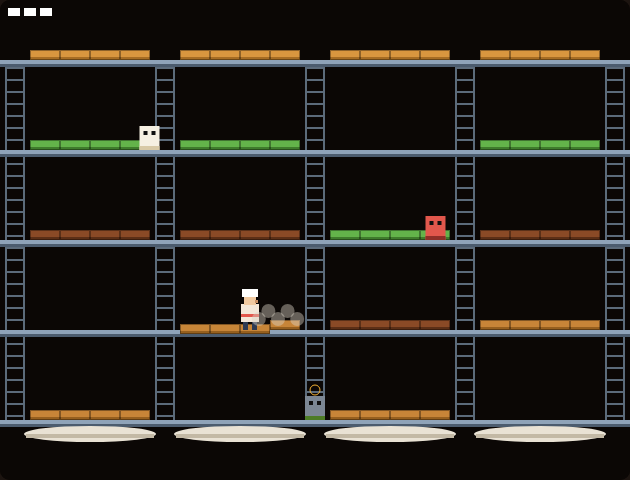
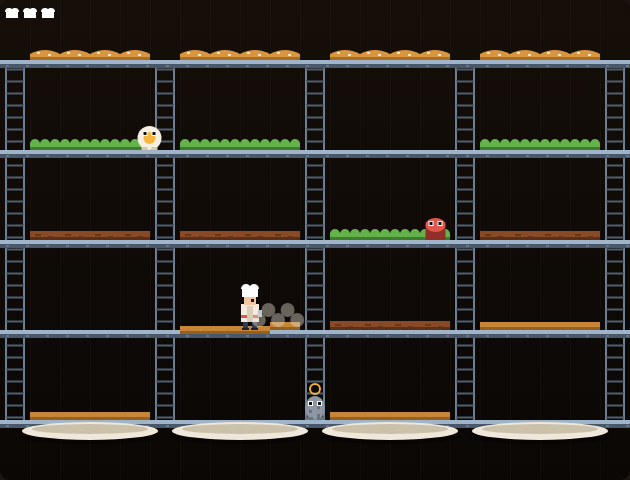
Polish Burger Time visuals and mark it complete
- Type-specific ingredient art (domed sesame bun, ruffled lettuce,
  textured patty), a tiled kitchen backdrop and riveted girders
- Distinct enemy sprites, animated chef stride and plate rendering that
  sits under the burger stack
- README status set to Complete now the 72-test suite is green

Claude-Session: https://claude.ai/code/session_0171SLrbWfZtJgYm64gdHMD5

diff --git a/BurgerTime/game.js b/BurgerTime/game.js
@@ -609,13 +609,25 @@ function hideOverlay() {
 // ---------------------------------------------------------------------------
 
 function drawBoard() {
-    ctx.fillStyle = '#0b0705';
+    // Kitchen backdrop: a dark tiled wall behind the girders.
+    const grad = ctx.createLinearGradient(0, 0, 0, CANVAS_H);
+    grad.addColorStop(0, '#150e09');
+    grad.addColorStop(1, '#0a0705');
+    ctx.fillStyle = grad;
     ctx.fillRect(0, 0, CANVAS_W, CANVAS_H);
+    ctx.strokeStyle = 'rgba(255, 255, 255, 0.025)';
+    ctx.lineWidth = 1;
+    for (let x = TILE; x < CANVAS_W; x += TILE) {
+        ctx.beginPath();
+        ctx.moveTo(x + 0.5, 0);
+        ctx.lineTo(x + 0.5, CANVAS_H);
+        ctx.stroke();
+    }
 
-    // Ladders behind the platforms.
+    // Ladders, behind the platforms.
     for (const c of LADDER_COLS) {
         const x = ladderX(c);
-        ctx.strokeStyle = '#5c6b7a';
+        ctx.strokeStyle = '#6d7f92';
         ctx.lineWidth = 2;
         ctx.beginPath();
         ctx.moveTo(x - 9, MIN_Y);
@@ -623,87 +635,173 @@ function drawBoard() {
         ctx.moveTo(x + 9, MIN_Y);
         ctx.lineTo(x + 9, MAX_Y);
         ctx.stroke();
-        for (let y = MIN_Y + 8; y < MAX_Y; y += 12) {
+        ctx.strokeStyle = '#4f5f70';
+        for (let y = MIN_Y + 9; y < MAX_Y; y += 12) {
             ctx.beginPath();
-            ctx.moveTo(x - 9, y);
-            ctx.lineTo(x + 9, y);
+            ctx.moveTo(x - 9, y + 0.5);
+            ctx.lineTo(x + 9, y + 0.5);
             ctx.stroke();
         }
     }
 
-    // Platforms.
+    // Platforms: a bright walk line over a riveted girder.
     for (const r of FLOOR_ROWS) {
         const y = floorY(r);
-        ctx.fillStyle = '#8fa3b8';
+        ctx.fillStyle = '#9fb4c9';
         ctx.fillRect(0, y, CANVAS_W, 4);
-        ctx.fillStyle = '#4c5c6e';
-        ctx.fillRect(0, y + 4, CANVAS_W, 3);
+        ctx.fillStyle = '#48586a';
+        ctx.fillRect(0, y + 4, CANVAS_W, 4);
+        ctx.fillStyle = '#66788c';
+        for (let x = 6; x < CANVAS_W; x += 20) ctx.fillRect(x, y + 5, 3, 2);
     }
 
     // Plates.
     for (let b = 0; b < BURGER_COLS.length; b++) {
-        const x = BURGER_COLS[b] * TILE;
-        const y = floorY(PLATE_ROW) + 14;
-        ctx.fillStyle = '#e9e2d4';
+        const cx = BURGER_COLS[b] * TILE + INGREDIENT_W / 2;
+        const y = floorY(PLATE_ROW) + 11;
+        ctx.fillStyle = 'rgba(0, 0, 0, 0.35)';
         ctx.beginPath();
-        ctx.ellipse(x + INGREDIENT_W / 2, y, INGREDIENT_W / 2 + 6, 8, 0, 0, Math.PI * 2);
+        ctx.ellipse(cx, y + 6, INGREDIENT_W / 2 + 10, 7, 0, 0, Math.PI * 2);
         ctx.fill();
-        ctx.fillStyle = '#c3b9a5';
-        ctx.fillRect(x - 4, y, INGREDIENT_W + 8, 4);
+        ctx.fillStyle = '#efe8da';
+        ctx.beginPath();
+        ctx.ellipse(cx, y, INGREDIENT_W / 2 + 8, 9, 0, 0, Math.PI * 2);
+        ctx.fill();
+        ctx.fillStyle = '#cbc0aa';
+        ctx.beginPath();
+        ctx.ellipse(cx, y - 2, INGREDIENT_W / 2 - 2, 5, 0, 0, Math.PI * 2);
+        ctx.fill();
     }
+}
+
+// Each ingredient is drawn tile by tile, so a trodden tile can sag on its own.
+function drawIngredientTile(g, s, x, top) {
+    const h = INGREDIENT_H;
+    ctx.fillStyle = g.color;
+
+    if (g.type === 'topbun') {
+        ctx.beginPath();
+        ctx.moveTo(x, top + h);
+        ctx.lineTo(x, top + 4);
+        ctx.quadraticCurveTo(x + TILE / 2, top - 4, x + TILE, top + 4);
+        ctx.lineTo(x + TILE, top + h);
+        ctx.closePath();
+        ctx.fill();
+        ctx.fillStyle = '#f6e3bf';   // sesame seeds
+        ctx.fillRect(x + 7, top + 2, 3, 2);
+        ctx.fillRect(x + 18, top + 4, 3, 2);
+    } else if (g.type === 'lettuce') {
+        ctx.fillRect(x, top + 3, TILE, h - 3);
+        ctx.beginPath();
+        for (let i = 0; i < 3; i++) {
+            ctx.moveTo(x + i * 10, top + 4);
+            ctx.arc(x + i * 10 + 5, top + 4, 5, Math.PI, 0);
+        }
+        ctx.fill();
+    } else if (g.type === 'patty') {
+        ctx.fillRect(x, top + 1, TILE, h - 1);
+        ctx.fillStyle = 'rgba(0, 0, 0, 0.25)';
+        ctx.fillRect(x + 5, top + 4, 6, 2);
+        ctx.fillRect(x + 18, top + 6, 5, 2);
+    } else {
+        ctx.fillRect(x, top + 2, TILE, h - 2);
+    }
+
+    ctx.fillStyle = g.edge;
+    ctx.fillRect(x, top + h - 3, TILE, 3);
 }
 
 function drawIngredient(g) {
     const x = g.col * TILE;
     for (let s = 0; s < INGREDIENT_TILES; s++) {
-        // A trodden segment sags a little, the way the arcade sprite does.
+        // A trodden tile sags, the way the arcade sprite does.
         const sag = g.state === 'rest' && !g.onPlate && g.segs[s] ? 4 : 0;
-        const top = g.y - INGREDIENT_H + sag;
-        ctx.fillStyle = g.color;
-        ctx.fillRect(x + s * TILE, top, TILE, INGREDIENT_H);
-        ctx.fillStyle = g.edge;
-        ctx.fillRect(x + s * TILE, top + INGREDIENT_H - 3, TILE, 3);
-        ctx.strokeStyle = 'rgba(0,0,0,0.35)';
-        ctx.lineWidth = 1;
-        ctx.strokeRect(x + s * TILE + 0.5, top + 0.5, TILE - 1, INGREDIENT_H - 1);
+        drawIngredientTile(g, s, x + s * TILE, g.y - INGREDIENT_H + sag);
     }
 }
 
 function drawChef() {
     const x = chef.x, y = chef.y;
-    const bob = Math.sin(chef.walkPhase) * 1.5;
+    const stride = Math.sin(chef.walkPhase) * 3;
+    const bob = Math.abs(Math.sin(chef.walkPhase)) * -1.5;
     // Legs.
     ctx.fillStyle = '#2f3b52';
-    ctx.fillRect(x - 7, y - 8, 5, 8);
-    ctx.fillRect(x + 2, y - 8, 5, 8);
-    // Body.
-    ctx.fillStyle = '#f3e7d8';
+    ctx.fillRect(x - 7 + stride, y - 8, 5, 8);
+    ctx.fillRect(x + 2 - stride, y - 8, 5, 8);
+    ctx.fillStyle = '#1a2233';
+    ctx.fillRect(x - 8 + stride, y - 2, 7, 2);
+    ctx.fillRect(x + 1 - stride, y - 2, 7, 2);
+    // Apron / body.
+    ctx.fillStyle = '#f6ecdd';
     ctx.fillRect(x - CHEF_W / 2, y - CHEF_H + bob, CHEF_W, CHEF_H - 8);
     ctx.fillStyle = '#e2574c';
-    ctx.fillRect(x - CHEF_W / 2, y - CHEF_H + 10 + bob, CHEF_W, 3);
+    ctx.fillRect(x - CHEF_W / 2, y - CHEF_H + 11 + bob, CHEF_W, 3);
+    ctx.fillStyle = '#d9cdb8';
+    ctx.fillRect(x - 3, y - CHEF_H + 2 + bob, 6, CHEF_H - 10);
     // Head and hat.
     ctx.fillStyle = '#f0c9a0';
     ctx.fillRect(x - 6, y - CHEF_H - 7 + bob, 12, 8);
+    ctx.fillStyle = '#151515';
+    ctx.fillRect(x + (chef.facing > 0 ? 1 : -4), y - CHEF_H - 5 + bob, 3, 3);
     ctx.fillStyle = '#ffffff';
     ctx.fillRect(x - 8, y - CHEF_H - 15 + bob, 16, 8);
-    // Nose points where the chef faces.
-    ctx.fillStyle = '#c98f63';
-    ctx.fillRect(x + (chef.facing > 0 ? 5 : -8), y - CHEF_H - 4 + bob, 3, 3);
+    ctx.beginPath();
+    ctx.arc(x - 4, y - CHEF_H - 15 + bob, 5, Math.PI, 0);
+    ctx.arc(x + 4, y - CHEF_H - 15 + bob, 5, Math.PI, 0);
+    ctx.fill();
+    // Pepper shaker, held in the leading hand.
+    ctx.fillStyle = '#b8c2cc';
+    ctx.fillRect(x + (chef.facing > 0 ? 8 : -12), y - CHEF_H + 6 + bob, 4, 7);
 }
 
 function drawEnemy(e) {
     const x = e.x, y = e.y;
-    ctx.fillStyle = e.stun > 0 ? '#7c8794' : e.color;
-    ctx.fillRect(x - ENEMY_W / 2, y - ENEMY_H, ENEMY_W, ENEMY_H);
-    ctx.fillStyle = e.edge;
-    ctx.fillRect(x - ENEMY_W / 2, y - 4, ENEMY_W, 4);
+    const body = e.stun > 0 ? '#8d97a4' : e.color;
+    const edge = e.stun > 0 ? '#6a737e' : e.edge;
+
+    if (e.type === 'hotdog') {
+        ctx.fillStyle = edge;   // bun
+        ctx.fillRect(x - ENEMY_W / 2, y - ENEMY_H + 6, ENEMY_W, ENEMY_H - 6);
+        ctx.fillStyle = body;
+        ctx.beginPath();
+        ctx.ellipse(x, y - ENEMY_H + 9, ENEMY_W / 2, 7, 0, 0, Math.PI * 2);
+        ctx.fill();
+    } else if (e.type === 'egg') {
+        ctx.fillStyle = body;
+        ctx.beginPath();
+        ctx.ellipse(x, y - ENEMY_H / 2, ENEMY_W / 2 + 2, ENEMY_H / 2, 0, 0, Math.PI * 2);
+        ctx.fill();
+        ctx.fillStyle = e.stun > 0 ? '#c9a63f' : '#f5b73d';
+        ctx.beginPath();
+        ctx.arc(x, y - ENEMY_H / 2, 6, 0, Math.PI * 2);
+        ctx.fill();
+    } else {
+        ctx.fillStyle = body;
+        ctx.beginPath();
+        ctx.ellipse(x, y - ENEMY_H / 2, ENEMY_W / 2, ENEMY_H / 2, 0, 0, Math.PI * 2);
+        ctx.fill();
+        ctx.fillStyle = edge;
+        for (let i = 0; i < 4; i++) {
+            ctx.fillRect(x - 6 + (i % 2) * 8, y - ENEMY_H + 6 + i * 4, 3, 3);
+        }
+    }
+
+    // Eyes and little feet.
+    ctx.fillStyle = '#ffffff';
+    ctx.fillRect(x - 7, y - ENEMY_H + 5, 5, 5);
+    ctx.fillRect(x + 2, y - ENEMY_H + 5, 5, 5);
     ctx.fillStyle = '#101010';
-    ctx.fillRect(x - 6, y - ENEMY_H + 5, 4, 4);
-    ctx.fillRect(x + 2, y - ENEMY_H + 5, 4, 4);
+    ctx.fillRect(x - 6, y - ENEMY_H + 6, 3, 3);
+    ctx.fillRect(x + 3, y - ENEMY_H + 6, 3, 3);
+    ctx.fillStyle = edge;
+    ctx.fillRect(x - 8, y - 3, 6, 3);
+    ctx.fillRect(x + 2, y - 3, 6, 3);
+
     if (e.stun > 0) {
         ctx.strokeStyle = '#f2b134';
+        ctx.lineWidth = 2;
         ctx.beginPath();
-        ctx.arc(x, y - ENEMY_H - 6, 5, 0, Math.PI * 2);
+        ctx.arc(x, y - ENEMY_H - 7, 5, 0, Math.PI * 2);
         ctx.stroke();
     }
 }
@@ -711,10 +809,10 @@ function drawEnemy(e) {
 function drawClouds() {
     for (const c of clouds) {
         ctx.globalAlpha = Math.max(0, Math.min(1, c.life / PEPPER_LIFE));
-        ctx.fillStyle = '#d9d2c4';
+        ctx.fillStyle = '#ded6c6';
         for (let i = 0; i < 5; i++) {
             ctx.beginPath();
-            ctx.arc(c.x + (i + 0.5) * (c.w / 5), c.y + c.h / 2 + (i % 2 ? -4 : 4), 7, 0, Math.PI * 2);
+            ctx.arc(c.x + (i + 0.5) * (c.w / 5), c.y + c.h / 2 + (i % 2 ? -5 : 5), 7, 0, Math.PI * 2);
             ctx.fill();
         }
         ctx.globalAlpha = 1;
@@ -730,8 +828,13 @@ function draw() {
 
     // Remaining lives as little chef hats in the corner.
     for (let i = 0; i < lives; i++) {
+        const x = 12 + i * 18;
         ctx.fillStyle = '#ffffff';
-        ctx.fillRect(8 + i * 16, 8, 12, 8);
+        ctx.fillRect(x - 6, 12, 12, 6);
+        ctx.beginPath();
+        ctx.arc(x - 3, 12, 4, Math.PI, 0);
+        ctx.arc(x + 3, 12, 4, Math.PI, 0);
+        ctx.fill();
     }
 }
 
